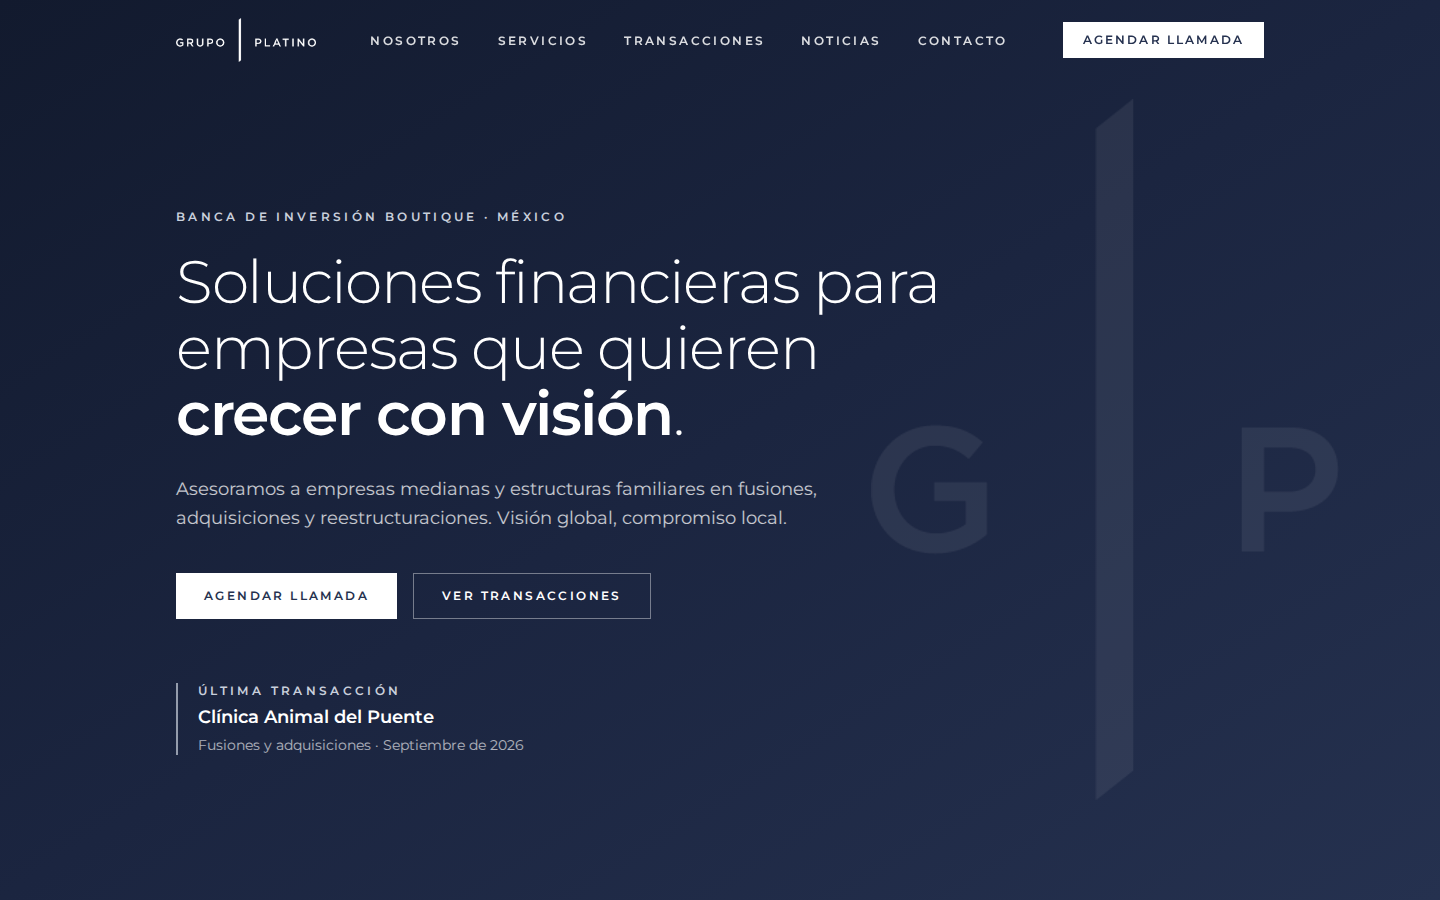
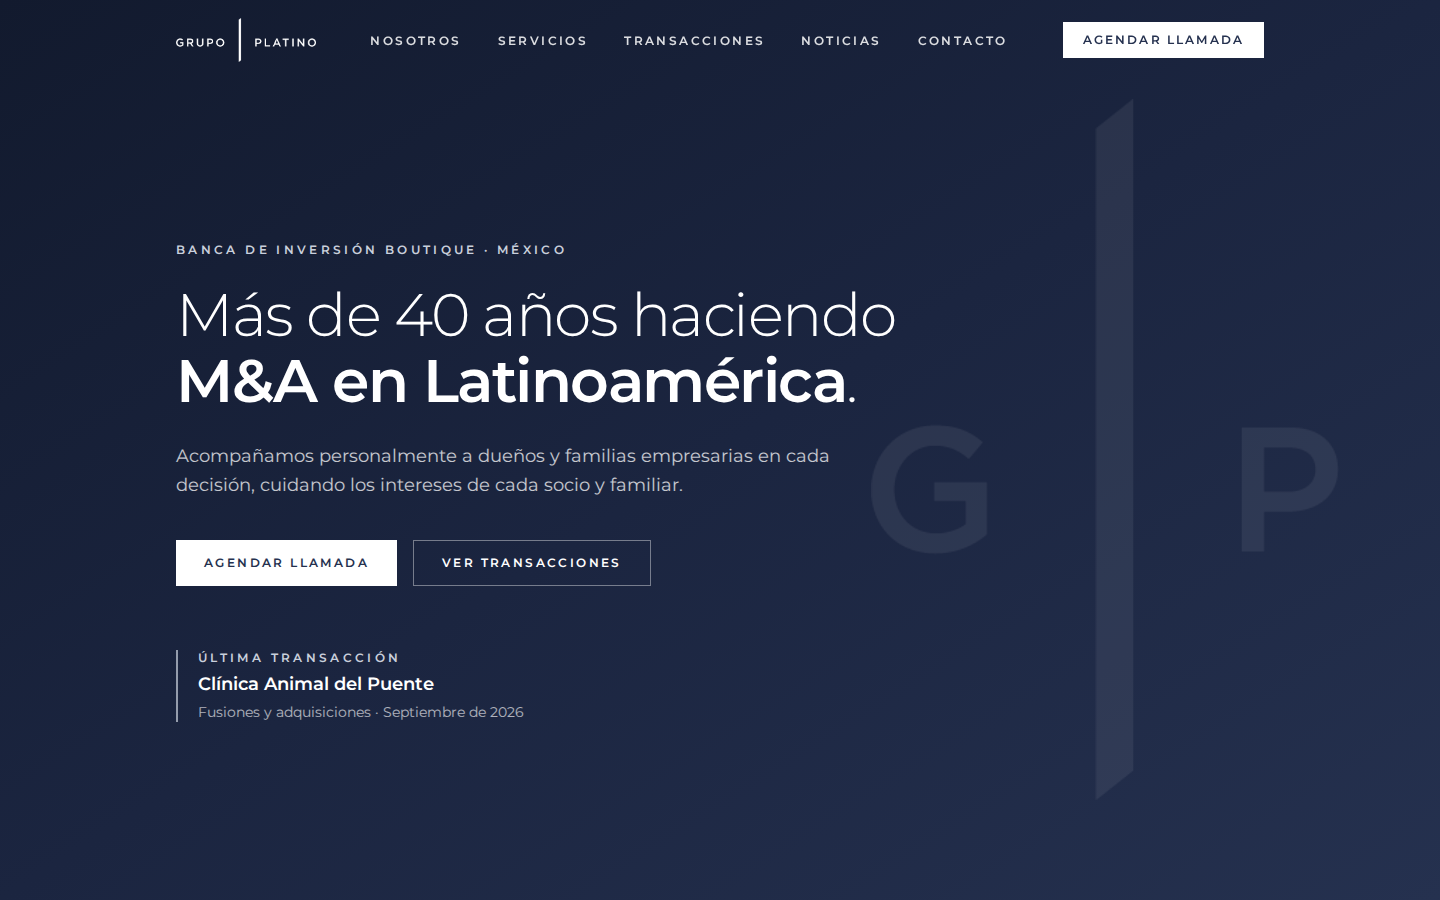
feat(hero): nuevo titular de 40 años en M&A y actualización de SEO y quiénes somos (#2)

Changed region(s): [[0.125, 0.2178, 0.6562, 0.84], [0.3125, 0.6222, 0.4375, 0.6844]]

diff --git a/index.html b/index.html
@@ -3,10 +3,10 @@
   <head>
     <meta charset="UTF-8" />
     <meta name="viewport" content="width=device-width, initial-scale=1.0" />
-    <title>Grupo Platino | Banca de inversión boutique en México</title>
+    <title>Grupo Platino | Más de 40 años haciendo M&amp;A en Latinoamérica</title>
     <meta
       name="description"
-      content="Grupo Platino es una banca de inversión boutique en México especializada en empresas medianas y estructuras familiares: fusiones y adquisiciones, reestructuración, valuación y consultoría estratégica."
+      content="Banca de inversión boutique en México con más de 40 años haciendo M&amp;A en Latinoamérica. Acompañamos a dueños y familias empresarias en fusiones, adquisiciones, reestructuración, valuación y consultoría estratégica."
     />
     <meta name="theme-color" content="#25314F" />
     <link rel="canonical" href="https://www.gplatino.com/" />
@@ -15,10 +15,10 @@
     <meta property="og:type" content="website" />
     <meta property="og:locale" content="es_MX" />
     <meta property="og:site_name" content="Grupo Platino" />
-    <meta property="og:title" content="Grupo Platino | Banca de inversión boutique en México" />
+    <meta property="og:title" content="Grupo Platino | Más de 40 años haciendo M&amp;A en Latinoamérica" />
     <meta
       property="og:description"
-      content="Fusiones, adquisiciones y reestructuraciones para empresas medianas y familiares. Visión global, compromiso local."
+      content="Más de 40 años haciendo M&amp;A en Latinoamérica. Acompañamos personalmente a dueños y familias empresarias en cada decisión."
     />
     <meta property="og:url" content="https://www.gplatino.com/" />
     <meta property="og:image" content="https://www.gplatino.com/og-image.png" />
@@ -29,7 +29,7 @@
         "@context": "https://schema.org",
         "@type": "FinancialService",
         "name": "Grupo Platino",
-        "description": "Banca de inversión boutique en México especializada en empresas medianas y estructuras familiares.",
+        "description": "Banca de inversión boutique en México con más de 40 años haciendo M&A en Latinoamérica, especializada en empresas medianas y estructuras familiares.",
         "url": "https://www.gplatino.com/",
         "logo": "https://www.gplatino.com/assets/logo-horizontal-navy.png",
         "email": "contacto@gplatino.com",

diff --git a/src/components/Hero.tsx b/src/components/Hero.tsx
@@ -21,11 +21,11 @@ export default function Hero() {
       <div className="mx-auto flex min-h-[100svh] max-w-6xl flex-col justify-center px-5 pb-16 pt-32 sm:px-8">
         <p className="eyebrow text-platinum">Banca de inversión boutique · México</p>
         <h1 id="hero-title" className="mt-6 max-w-3xl text-4xl font-light leading-[1.1] tracking-tight sm:text-5xl lg:text-6xl">
-          Soluciones financieras para empresas que quieren <span className="font-semibold">crecer con visión</span>.
+          Más de 40 años haciendo <span className="font-semibold">M&amp;A en Latinoamérica</span>.
         </h1>
         <p className="mt-7 max-w-2xl text-base leading-relaxed text-white/75 sm:text-lg">
-          Asesoramos a empresas medianas y estructuras familiares en fusiones, adquisiciones y reestructuraciones.
-          Visión global, compromiso local.
+          Acompañamos personalmente a dueños y familias empresarias en cada decisión, cuidando los intereses de cada
+          socio y familiar.
         </p>
         <div className="mt-10 flex flex-col gap-4 sm:flex-row">
           <a href={calendlyUrl} target="_blank" rel="noopener noreferrer" className="btn bg-white text-navy-800 hover:bg-platinum">

diff --git a/src/components/About.tsx b/src/components/About.tsx
@@ -16,8 +16,8 @@ export default function About() {
           </div>
           <div className="space-y-5 text-base leading-relaxed text-navy-800/85 sm:text-lg">
             <p>
-              Grupo Platino es una banca de inversión boutique ubicada en México, especializada en empresas medianas y
-              estructuras familiares.
+              Grupo Platino es una banca de inversión boutique ubicada en México, con más de 40 años haciendo M&amp;A en
+              Latinoamérica y especializada en empresas medianas y estructuras familiares.
             </p>
             <p>
               Brindamos soluciones financieras personalizadas en fusiones, adquisiciones y reestructuraciones

diff --git a/README.md b/README.md
@@ -118,6 +118,7 @@ Azul marino `#25314F`, platino `#C9D0DC` como acento y fondos claro/oscuro alter
 
 Los textos actuales se basaron en el sitio actual (https://www.gplatino.com/) y fueron redactados con tono más claro y ordenado. No se pudo usar el PDF mencionado. Falta confirmar:
 
+- [ ] **Antigüedad “más de 40 años”:** confirmar la cifra y su sustento (año de fundación o trayectoria del equipo) antes de publicarla.
 - [ ] **Textos oficiales:** quiénes somos, visión/misión, descripción de cada servicio y los pilares de la sección “Quiénes somos”.
 - [ ] **Teléfono:** el sitio actual muestra `52-11-07-69` (sin lada); confirmar número completo y si debe ser clicable (`tel:`) o con WhatsApp.
 - [ ] **Correos:** el sitio actual lista `secretaria@gplatino.com` y `contacto@gplatino.com`; confirmar cuál(es) publicar y cuál recibe el formulario.
